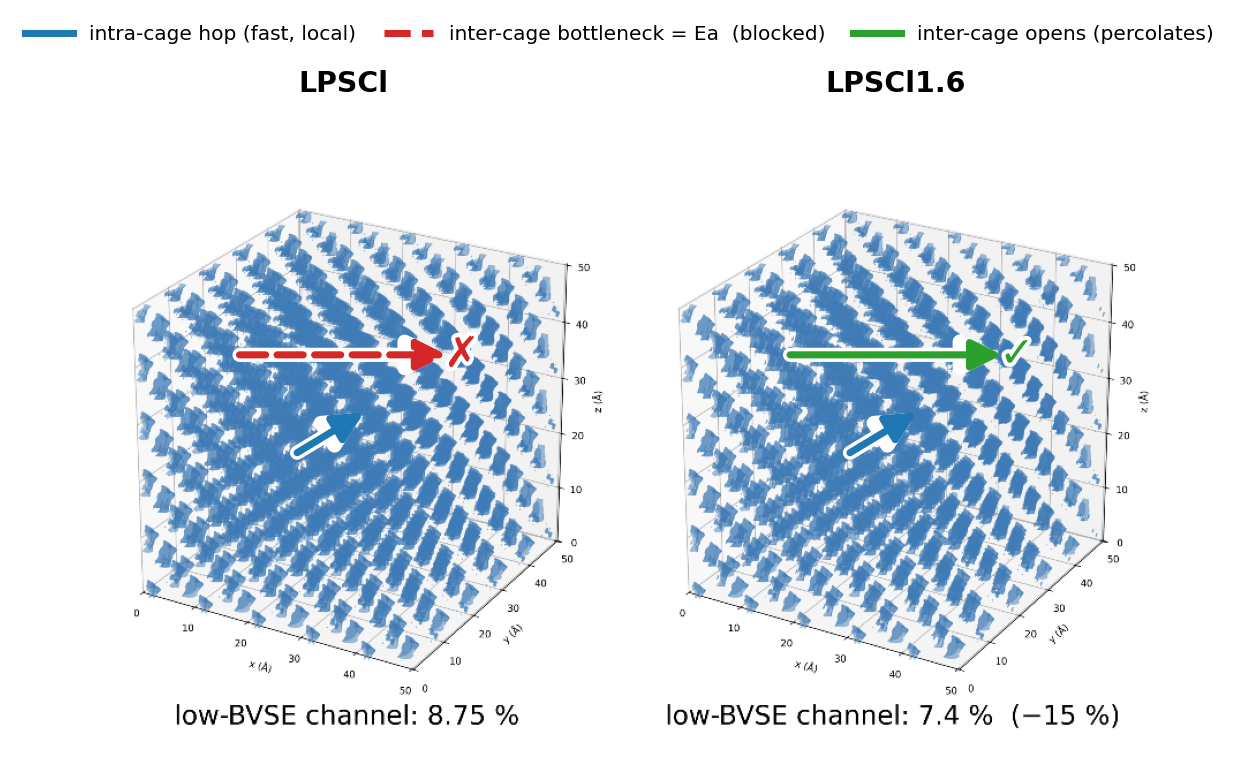
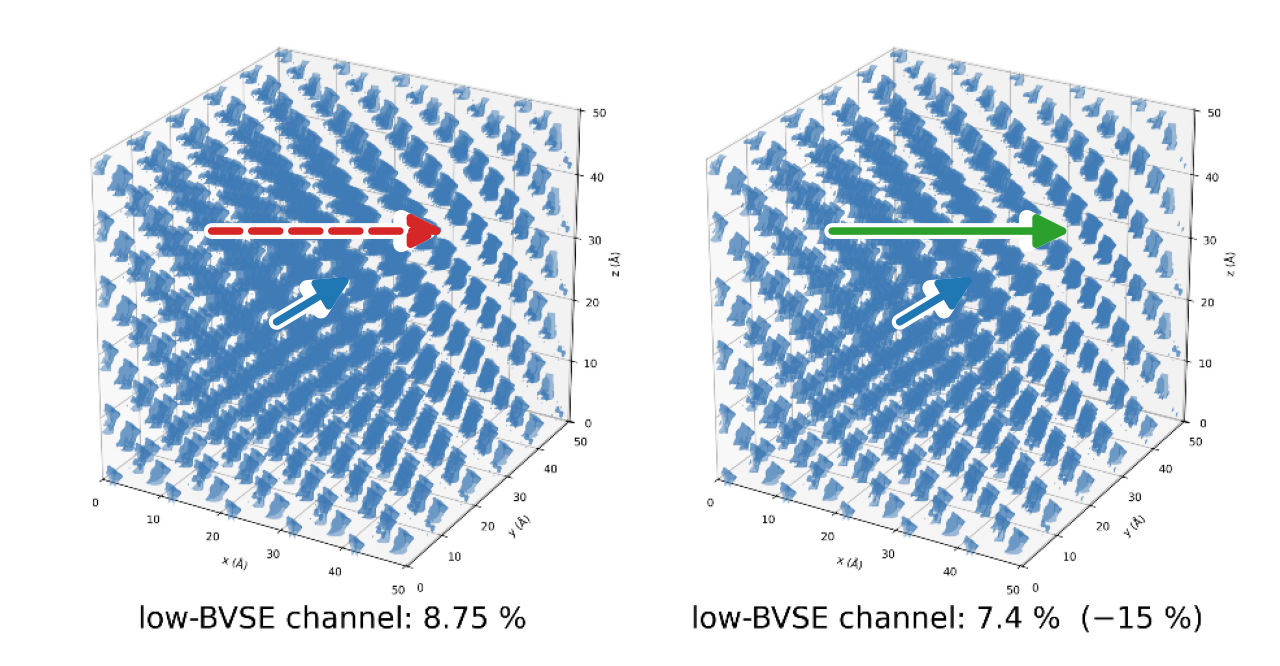
BVSE figure: arrows only (no legend/labels/markers)
Strip the legend, panel labels, and x/check marks from the BVSE channel
overlay per request - just blue/green/red migration arrows with white halos
(colours explained verbally). Baked-in low-BVSE channel % captions kept.

Claude-Session: https://claude.ai/code/session_01L44TWYrHkcm4PH5ihWSSCw

diff --git a/tools/figures/annot_bvse_arrows.py b/tools/figures/annot_bvse_arrows.py
@@ -1,86 +1,53 @@
 #!/usr/bin/env python3
-"""annot_bvse_arrows.py — overlay color-coded migration arrows on the BVSE
-low-channel figure (docs/figures/deck_extracted/bvse_channels.png).
+"""annot_bvse_arrows.py — overlay ONLY blue/green/red migration arrows on the
+BVSE low-channel figure (docs/figures/deck_extracted/bvse_channels.png).
 
-Arrows only (no redraw). Colour meaning:
-  blue  (solid)        intra-cage hop          fast local motion inside a cage
-  red   (dashed, x)    inter-cage BOTTLENECK   LPSCl: rate-limiting -> Ea
-  green (solid, check) inter-cage OPENS        LPSCl1.6: route percolates
+Arrows only: no legend, no labels, no S/Cl markers, no x/check marks (the
+speaker explains the colours verbally). The baked-in "low-BVSE channel: X %"
+captions stay. White halos so the arrows read against the blue point cloud.
 
-Story: the static low-BVSE channel actually SHRINKS (8.75 -> 7.4 %, -15 %),
-yet sigma x4. BVSE sees only the intra-cage channel; the win is the inter-cage
-bottleneck, which is blocked in LPSCl (red) and opened by anti-site disorder in
-LPSCl1.6 (green). Pairs with the percolation barrier F* (0.191 -> 0.078 eV).
+Colour scheme (explained verbally):
+  blue  (solid)  intra-cage hop (fast local)        - both panels
+  red   (dashed) inter-cage bottleneck = Ea         - LPSCl (left), blocked
+  green (solid)  inter-cage opens / percolates       - LPSCl1.6 (right)
 
   python3 annot_bvse_arrows.py
 """
 import matplotlib
 matplotlib.use("Agg")
 import matplotlib.pyplot as plt
-from matplotlib.lines import Line2D
 import matplotlib.image as mpimg
-import matplotlib.patheffects as pe
-
-HALO = [pe.withStroke(linewidth=3.5, foreground="white")]
 
 SRC = "docs/figures/deck_extracted/bvse_channels.png"
 OUT = "docs/figures/ionic/bvse_channels_arrows.png"
-
 BLUE, RED, GREEN = "#1f77b4", "#d62728", "#2ca02c"
 
 
-def arrow(ax, p0, p1, color, dashed=False, lw=3.0):
-    # white halo underneath so the arrow pops against the blue point cloud
-    ax.annotate("", xy=p1, xytext=p0,
-                arrowprops=dict(arrowstyle="-|>", color="white", lw=lw + 3.0,
-                                mutation_scale=28, shrinkA=0, shrinkB=0,
-                                linestyle="-"))
-    ax.annotate("", xy=p1, xytext=p0,
-                arrowprops=dict(arrowstyle="-|>", color=color, lw=lw,
-                                mutation_scale=26, shrinkA=0, shrinkB=0,
-                                linestyle="--" if dashed else "-"))
+def arrow(ax, p0, p1, color, dashed=False, lw=3.2):
+    for col, w in (("white", lw + 3.5), (color, lw)):       # white halo, then colour
+        ax.annotate("", xy=p1, xytext=p0,
+                    arrowprops=dict(arrowstyle="-|>", color=col, lw=w,
+                                    mutation_scale=28, shrinkA=0, shrinkB=0,
+                                    linestyle="--" if (dashed and col != "white")
+                                    else "-"))
 
 
 def main():
     im = mpimg.imread(SRC)
-    h, w = im.shape[:2]            # (487, 960)
-    band = 110                     # white header strip (px) above the image
-    fig, ax = plt.subplots(figsize=(w / 125, (h + band) / 125))
-    ax.imshow(im)                  # pixel coords, y downward (0=top)
-    ax.set_xlim(0, w); ax.set_ylim(h, -band); ax.axis("off")
-    ax.set_facecolor("white")
+    h, w = im.shape[:2]                                      # (487, 960)
+    fig, ax = plt.subplots(figsize=(w / 130, h / 130))
+    ax.imshow(im)
+    ax.set_xlim(0, w); ax.set_ylim(h, 0); ax.axis("off")
 
-    # ---- panel labels in the top white band ----
-    ax.text(240, -78, "LPSCl", color="black", fontsize=12, ha="center",
-            fontweight="bold")
-    ax.text(720, -78, "LPSCl1.6", color="black", fontsize=12, ha="center",
-            fontweight="bold")
+    # ---- LEFT = LPSCl (comp1): blue intra-cage + red blocked inter-cage ----
+    arrow(ax, (200, 235), (258, 200), BLUE)                 # intra-cage
+    arrow(ax, (150, 165), (330, 165), RED, dashed=True)     # inter-cage blocked
 
-    # ---- LEFT panel = LPSCl (comp1), cloud ~ center (240, 215) ----
-    arrow(ax, (200, 235), (258, 200), BLUE)                       # intra-cage
-    arrow(ax, (150, 150), (330, 150), RED, dashed=True)           # inter-cage blocked
-    ax.text(343, 150, "✗", color=RED, fontsize=18, ha="center",
-            va="center", fontweight="bold", path_effects=HALO)
+    # ---- RIGHT = LPSCl1.6 (modelc): blue intra-cage + green open inter-cage ----
+    arrow(ax, (680, 235), (738, 200), BLUE)                 # intra-cage
+    arrow(ax, (628, 165), (812, 165), GREEN)                # inter-cage opens
 
-    # ---- RIGHT panel = LPSCl1.6 (modelc), cloud ~ center (720, 215) ----
-    arrow(ax, (680, 235), (738, 200), BLUE)                       # intra-cage
-    arrow(ax, (628, 150), (812, 150), GREEN)                      # inter-cage open
-    ax.text(825, 150, "✓", color=GREEN, fontsize=18, ha="center",
-            va="center", fontweight="bold", path_effects=HALO)
-
-    # ---- compact legend (centered in the top band) ----
-    handles = [
-        Line2D([0], [0], color=BLUE, lw=3, label="intra-cage hop (fast, local)"),
-        Line2D([0], [0], color=RED, lw=3, ls="--",
-               label="inter-cage bottleneck = Ea  (blocked)"),
-        Line2D([0], [0], color=GREEN, lw=3,
-               label="inter-cage opens (percolates)"),
-    ]
-    ax.legend(handles=handles, loc="lower center", ncol=3, fontsize=8.5,
-              framealpha=0.0, bbox_to_anchor=(0.5, 1.005), borderaxespad=0,
-              handlelength=2.4, columnspacing=1.4)
-
-    fig.tight_layout(pad=0.2)
+    fig.tight_layout(pad=0.1)
     fig.savefig(OUT, dpi=170, bbox_inches="tight", facecolor="white")
     print(f"-> {OUT}")
 
